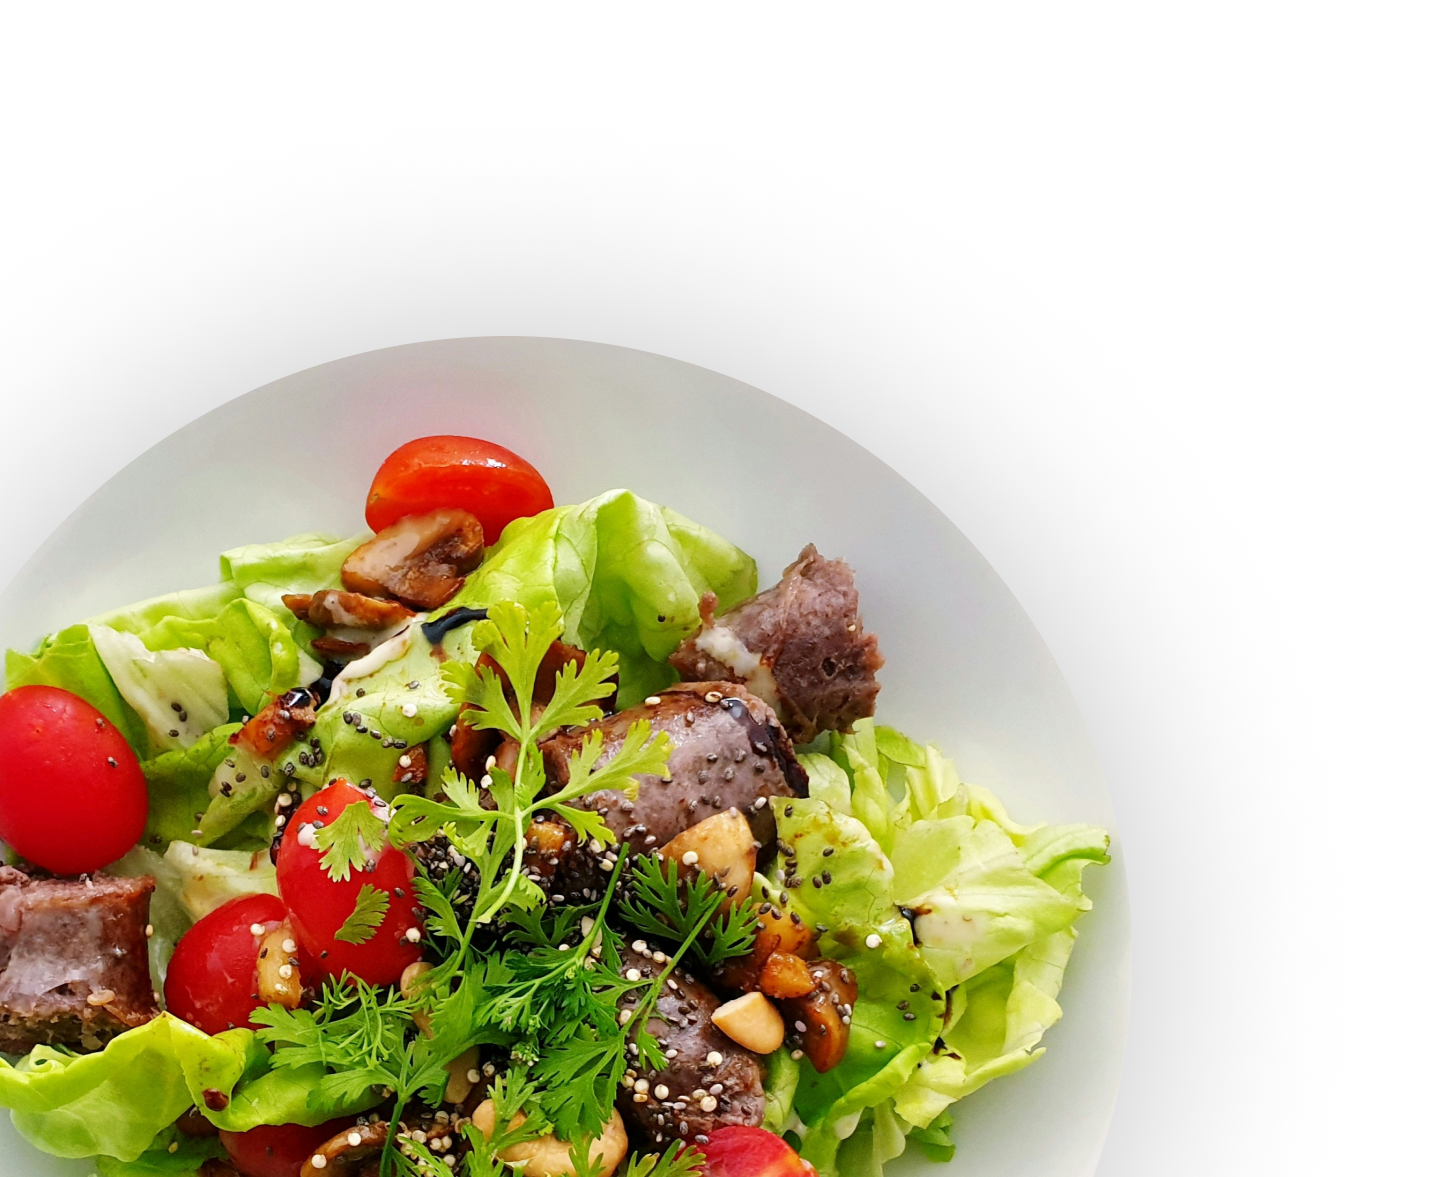
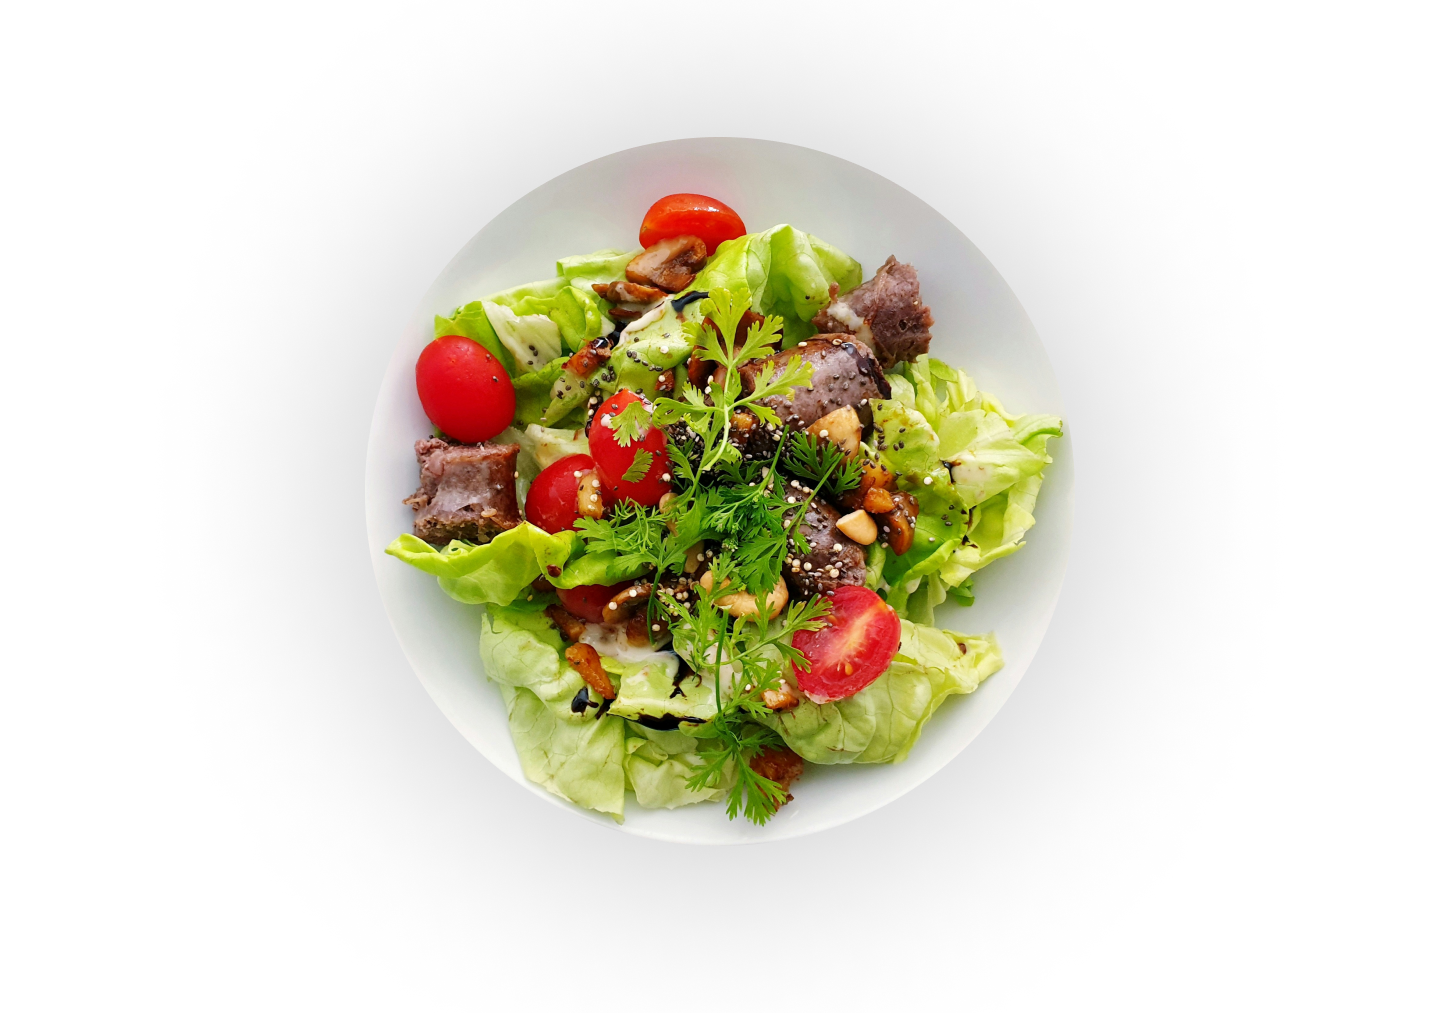
메인 페이지 디자인 수정
메인 페이지 디자인 수정

diff --git a/src/app/Index.js b/src/app/Index.js
@@ -1,6 +1,6 @@
 import React from 'react'
 //import vegetable from '../img/vegetable.jpg'
-import salad  from '../img/salad1.png'
+import salad  from '../img/salad.png'
 
 // const StyledComponentWithBackground = styled.div`
 //   background-image: url(${vegetable});
